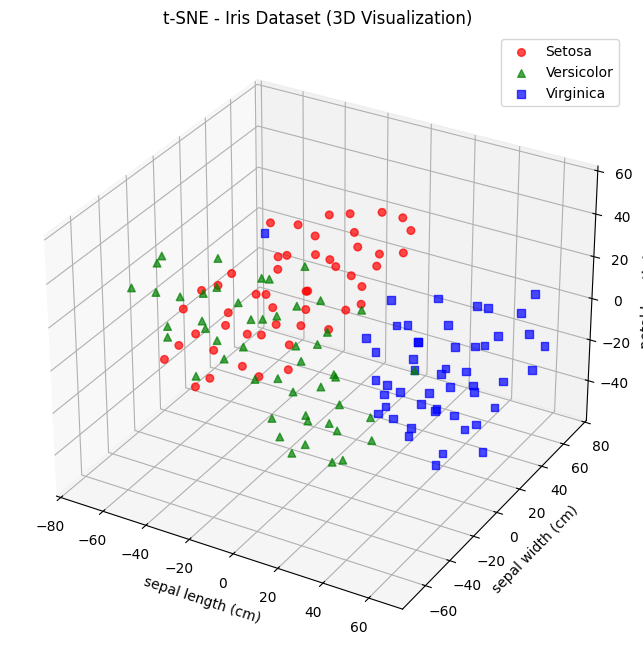
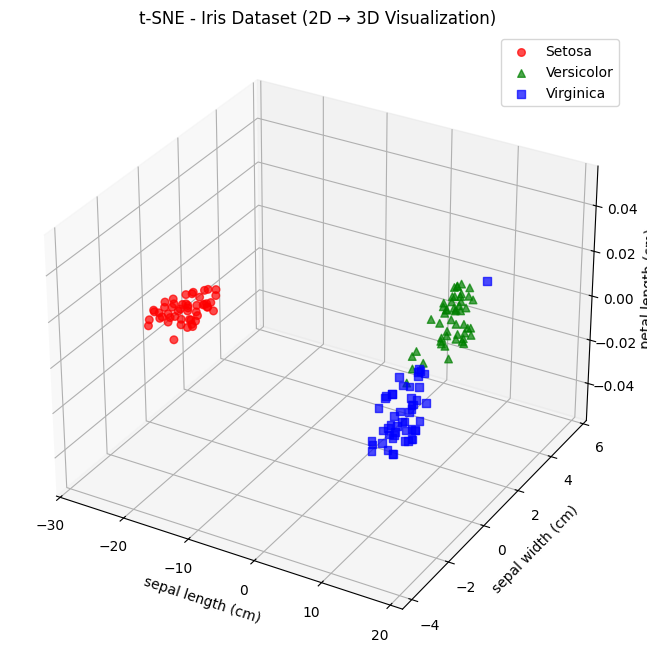
adapt scripts

diff --git a/scripts/2-6-parametric_tsne_reduction.py b/scripts/2-6-parametric_tsne_reduction.py
@@ -8,12 +8,11 @@ from utils.common import load_iris_dataset, visualize_3d_scatter
 # Load iris dataset
 data, feature_names, target = load_iris_dataset()
 
-# Normalize data
-scaler = StandardScaler()
-data_scaled = scaler.fit_transform(data)
+# Use data as is without normalization
+data_scaled = data
 
 # Generate t-SNE embedding as targets
-tsne = TSNE(n_components=3, perplexity=30, random_state=42)
+tsne = TSNE(n_components=2, perplexity=30, random_state=42)
 tsne_embedding = tsne.fit_transform(data_scaled)
 
 # Create parametric t-SNE model
@@ -24,7 +23,7 @@ class ParametricTSNE(tf.keras.Model):
             tf.keras.layers.Dense(16, activation='relu'),
             tf.keras.layers.Dense(12, activation='relu'),
             tf.keras.layers.Dense(8, activation='relu'),
-            tf.keras.layers.Dense(3)  # Output 3D embedding
+            tf.keras.layers.Dense(2)  # Output 2D embedding
         ])
         
     def call(self, inputs):
@@ -51,12 +50,15 @@ history = model.fit(
 # Generate embeddings with trained model
 parametric_tsne_embedding = model.predict(X_train)
 
+# Add zero column for 3D visualization
+parametric_tsne_embedding_3d = np.column_stack((parametric_tsne_embedding, np.zeros(len(parametric_tsne_embedding))))
+
 # Visualize parametric t-SNE embeddings in 3D
 output_path = "/workspaces/10944-seminar/images/2-6-parametric_tsne_reduction.png"
 visualize_3d_scatter(
-    data=parametric_tsne_embedding, 
+    data=parametric_tsne_embedding_3d, 
     target=target,
-    title="Parametric t-SNE - Iris Dataset (3D Visualization)",
+    title="Parametric t-SNE - Iris Dataset (2D → 3D Visualization)",
     save_path=output_path,
     features_to_use=[0, 1, 2]
 )

diff --git a/scripts/2-5-contrastive_reduction.py b/scripts/2-5-contrastive_reduction.py
@@ -7,9 +7,9 @@ from utils.common import load_iris_dataset, visualize_3d_scatter
 # Load iris dataset
 data, feature_names, target = load_iris_dataset()
 
-# Normalize data
-scaler = StandardScaler()
-data_scaled = scaler.fit_transform(data)
+# Use data as is without normalization
+data_scaled = data
+
 
 # Define augmentation function
 def augment(x):
@@ -18,7 +18,7 @@ def augment(x):
 
 # Create contrastive learning model
 class ContrastiveModel(tf.keras.Model):
-    def __init__(self, embedding_size=3):
+    def __init__(self, embedding_size=2):
         super().__init__()
         self.embedding_size = embedding_size
         self.encoder = tf.keras.Sequential([
@@ -54,7 +54,7 @@ def contrastive_loss(projections_1, projections_2, temperature=0.1):
     return loss
 
 # Training setup
-model = ContrastiveModel(embedding_size=3)
+model = ContrastiveModel(embedding_size=2)
 optimizer = tf.keras.optimizers.Adam(0.001)
 batch_size = 32
 
@@ -86,12 +86,15 @@ for epoch in range(epochs):
 embeddings, _ = model(tf.convert_to_tensor(data_scaled, dtype=tf.float32))
 data_contrastive = embeddings.numpy()
 
+# Add zero column for 3D visualization
+data_contrastive_3d = np.column_stack((data_contrastive, np.zeros(len(data_contrastive))))
+
 # Visualize contrastive learning embeddings in 3D
 output_path = "/workspaces/10944-seminar/images/2-5-contrastive_reduction.png"
 visualize_3d_scatter(
-    data=data_contrastive, 
+    data=data_contrastive_3d, 
     target=target,
-    title="Contrastive Learning - Iris Dataset (3D Visualization)",
+    title="Contrastive Learning - Iris Dataset (2D → 3D Visualization)",
     save_path=output_path,
     features_to_use=[0, 1, 2]
 )

diff --git a/scripts/2-4-autoencoder_reduction.py b/scripts/2-4-autoencoder_reduction.py
@@ -7,13 +7,12 @@ from utils.common import load_iris_dataset, visualize_3d_scatter
 # Load iris dataset
 data, feature_names, target = load_iris_dataset()
 
-# Normalize data for neural network
-scaler = MinMaxScaler()
-data_scaled = scaler.fit_transform(data)
+# Use data as is without normalization
+data_scaled = data
 
 # Create autoencoder model
 input_dim = data_scaled.shape[1]  # Number of features
-encoding_dim = 3  # Dimension of encoded representation
+encoding_dim = 2  # Dimension of encoded representation
 
 # Encoder
 input_layer = tf.keras.layers.Input(shape=(input_dim,))
@@ -38,15 +37,18 @@ autoencoder.fit(data_scaled, data_scaled,
                 shuffle=True, 
                 verbose=1)
 
-# Get encoded representation (3D)
+# Get encoded representation (2D)
 data_encoded = encoder.predict(data_scaled)
+
+# Add zero column for 3D visualization
+data_encoded_3d = np.column_stack((data_encoded, np.zeros(len(data_encoded))))
 
 # Visualize autoencoder encoded data in 3D
 output_path = "/workspaces/10944-seminar/images/2-4-autoencoder_reduction.png"
 visualize_3d_scatter(
-    data=data_encoded, 
+    data=data_encoded_3d, 
     target=target,
-    title="Autoencoder - Iris Dataset (3D Visualization)",
+    title="Autoencoder - Iris Dataset (2D → 3D Visualization)",
     save_path=output_path,
-    features_to_use=[0, 1, 2]  # Use all 3 encoded dimensions
+    features_to_use=[0, 1, 2]
 )

diff --git a/scripts/2-1-pca_reduction.py b/scripts/2-1-pca_reduction.py
@@ -6,20 +6,23 @@ from utils.common import load_iris_dataset, visualize_3d_scatter
 # Load iris dataset
 data, feature_names, target = load_iris_dataset()
 
-# Apply PCA for dimensionality reduction (to 3 components)
-pca = PCA(n_components=3)
+# Apply PCA for dimensionality reduction (to 2 components)
+pca = PCA(n_components=2)
 data_pca = pca.fit_transform(data)
 
 # Print explained variance ratio
 print(f"Explained variance ratio: {pca.explained_variance_ratio_}")
 print(f"Total explained variance: {sum(pca.explained_variance_ratio_):.4f}")
 
+# Add zero column for 3D visualization
+data_pca_3d = np.column_stack((data_pca, np.zeros(len(data_pca))))
+
 # Visualize PCA reduced data in 3D
 output_path = "/workspaces/10944-seminar/images/2-1-pca_reduction.png"
 visualize_3d_scatter(
-    data=data_pca, 
+    data=data_pca_3d, 
     target=target,
-    title="PCA - Iris Dataset (3D Visualization)",
+    title="PCA - Iris Dataset (2D → 3D Visualization)",
     save_path=output_path,
-    features_to_use=[0, 1, 2]  # Use all 3 PCA components
+    features_to_use=[0, 1, 2]  # Use all 3 dimensions for plotting
 )

diff --git a/scripts/2-2-tsne_reduction.py b/scripts/2-2-tsne_reduction.py
@@ -6,16 +6,19 @@ from utils.common import load_iris_dataset, visualize_3d_scatter
 # Load iris dataset
 data, feature_names, target = load_iris_dataset()
 
-# Apply t-SNE for dimensionality reduction (to 3 components)
-tsne = TSNE(n_components=3, random_state=42, perplexity=30)
+# Apply t-SNE for dimensionality reduction (to 2 components)
+tsne = TSNE(n_components=2, random_state=42, perplexity=30)
 data_tsne = tsne.fit_transform(data)
+
+# Add zero column for 3D visualization
+data_tsne_3d = np.column_stack((data_tsne, np.zeros(len(data_tsne))))
 
 # Visualize t-SNE reduced data in 3D
 output_path = "/workspaces/10944-seminar/images/2-2-tsne_reduction.png"
 visualize_3d_scatter(
-    data=data_tsne, 
+    data=data_tsne_3d, 
     target=target,
-    title="t-SNE - Iris Dataset (3D Visualization)",
+    title="t-SNE - Iris Dataset (2D → 3D Visualization)",
     save_path=output_path,
-    features_to_use=[0, 1, 2]  # Use all 3 t-SNE components
+    features_to_use=[0, 1, 2]
 )

diff --git a/scripts/2-3-umap_reduction.py b/scripts/2-3-umap_reduction.py
@@ -6,16 +6,19 @@ from utils.common import load_iris_dataset, visualize_3d_scatter
 # Load iris dataset
 data, feature_names, target = load_iris_dataset()
 
-# Apply UMAP for dimensionality reduction (to 3 components)
-reducer = umap.UMAP(n_components=3, random_state=42)
+# Apply UMAP for dimensionality reduction (to 2 components)
+reducer = umap.UMAP(n_components=2, random_state=42)
 data_umap = reducer.fit_transform(data)
+
+# Add zero column for 3D visualization
+data_umap_3d = np.column_stack((data_umap, np.zeros(len(data_umap))))
 
 # Visualize UMAP reduced data in 3D
 output_path = "/workspaces/10944-seminar/images/2-3-umap_reduction.png"
 visualize_3d_scatter(
-    data=data_umap, 
+    data=data_umap_3d, 
     target=target,
-    title="UMAP - Iris Dataset (3D Visualization)",
+    title="UMAP - Iris Dataset (2D → 3D Visualization)",
     save_path=output_path,
-    features_to_use=[0, 1, 2]  # Use all 3 UMAP components
+    features_to_use=[0, 1, 2]
 )
